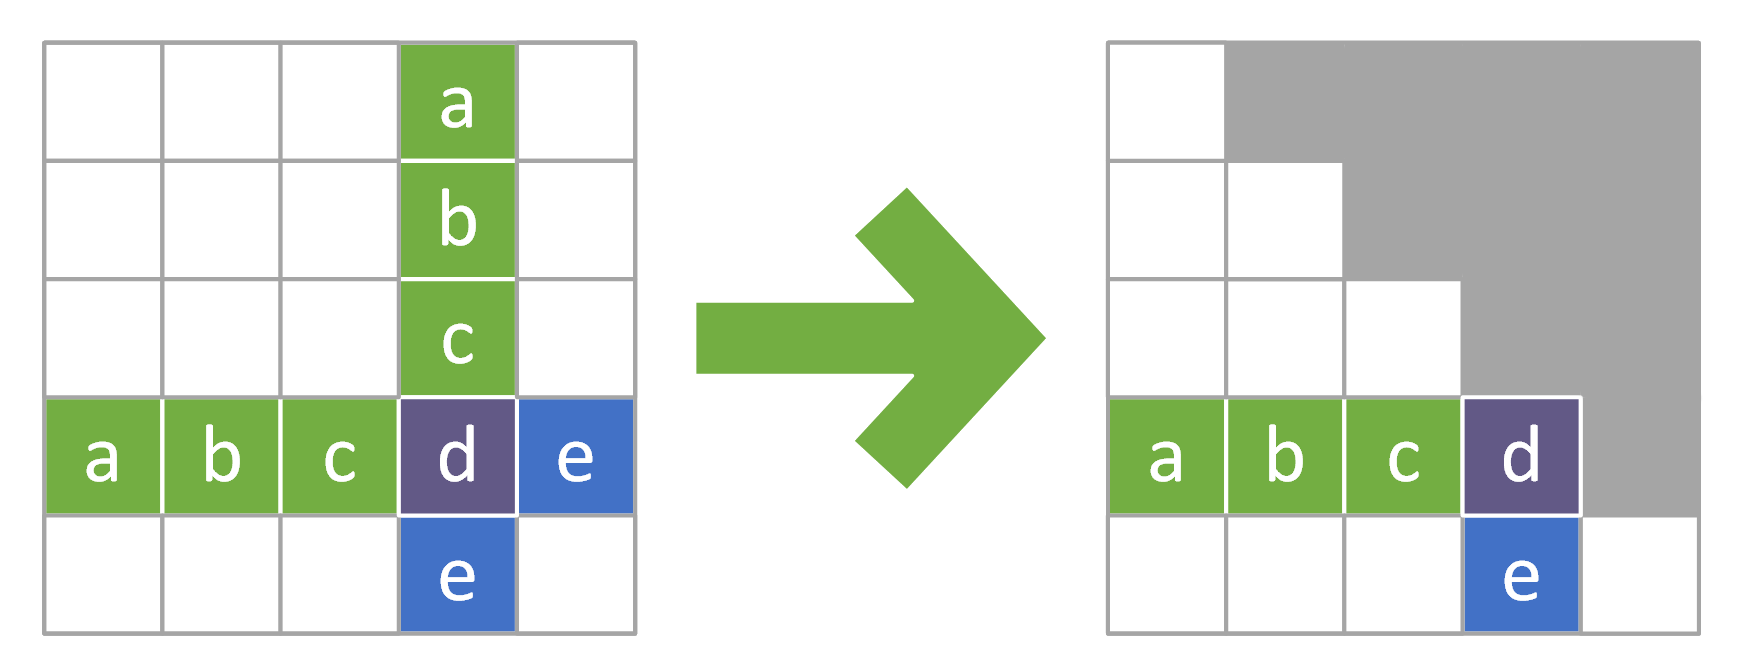
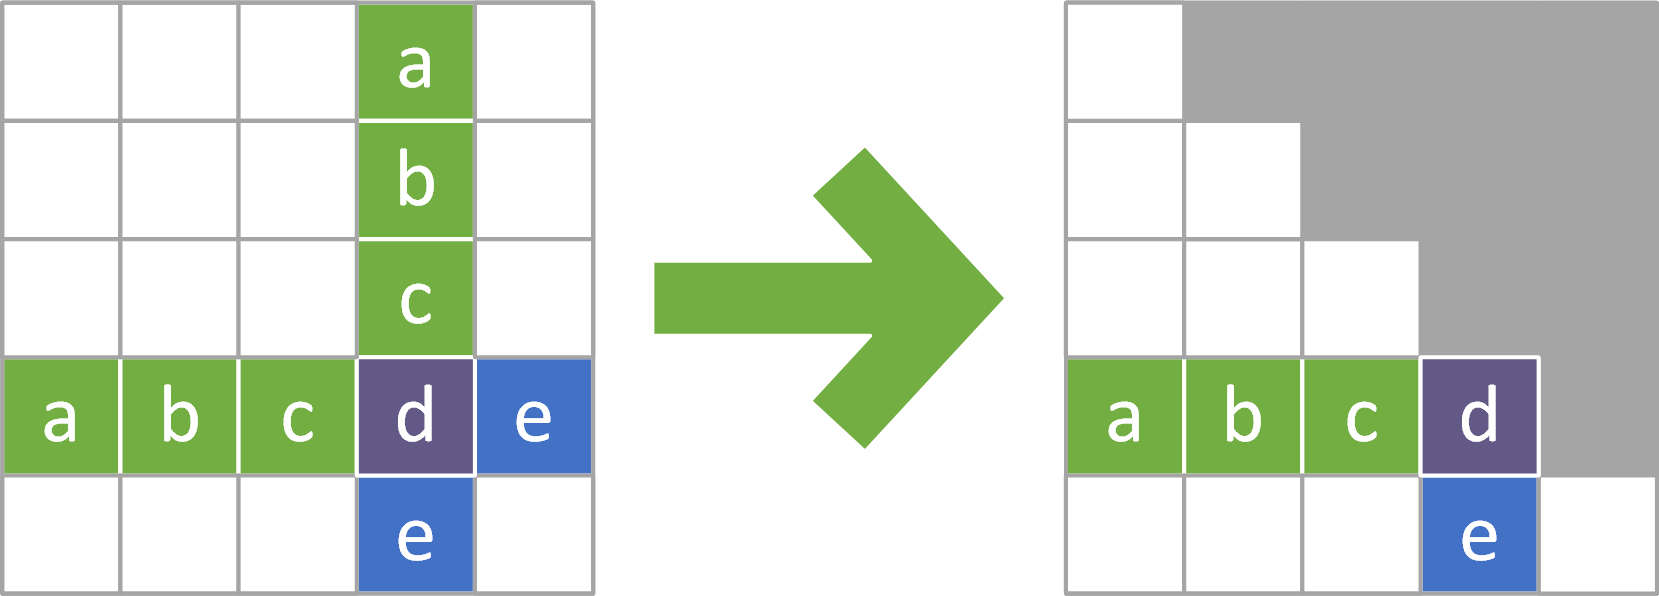
Added memory usage optimisation visualisations

diff --git a/040_HierarchicalClustering.tex b/040_HierarchicalClustering.tex
@@ -84,9 +84,25 @@ This storage strategy would use $(2n-1)^2$ double-precision floating-point numbe
 
 The easiest optimisation is to convert all distances to a single-precision floating-point format. The loss of precision is not affecting the result, as mostly only the $<$ and $>$ relations of the different distances are important.
 
-A second optimisation that can be applied is, to remove redundant information. When storing the full matrix of all distances, most values are stored twice. The matrix is mirrored along the diagonal, because the used street networks are undirected graphs. So the memory usage can almost be cut in half if those duplicates are not stored.
+A second optimisation that can be applied is, to remove redundant information. When storing the full matrix of all distances, most values are stored twice. The matrix is mirrored along the diagonal, because the used street networks are undirected graphs. So the memory usage can almost be cut in half if those duplicates are not stored. This improvement is visualised in figure \ref{fig:memory_usage_01}.
 
-The third and last applied optimisation was to change the way, how cluster distances are stored if the reduction formula \acrshort{UPGMA} or \acrshort{WPGMA} is used. Each time, when two clusters are combined, the distances of the new formed cluster to every other cluster are calculated. This combination step is done using the distances stored for the two old clusters. Afterwards the distances which were stored for the old clusters are no longer used. To reduce the memory usage, the distances of the new cluster can therefore be stored, at the location where the distances of one of the old clusters were stored.
+The third and last applied optimisation was to change the way, how cluster distances are stored if the reduction formula \acrshort{UPGMA} or \acrshort{WPGMA} is used. Each time, when two clusters are combined, the distances of the new formed cluster to every other cluster are calculated. This combination step is done using the distances stored for the two old clusters. Afterwards the distances which were stored for the old clusters are no longer used. To reduce the memory usage, the distances of the new cluster can therefore be stored, at the location where the distances of one of the old clusters were stored. Figure \ref{fig:memory_usage_02} visualises this optimisation.
+
+\begin{figure}
+    \centering
+    \begin{subfigure}[b]{\textwidth}
+        \includegraphics[width=\linewidth]{memoryusage01.png}
+        \caption{Optimisation of memory usage by not storing redundant information. On the left hand side is the full distance matrix, on the right hand side is the same matrix without the duplicate entries.}
+        \label{fig:memory_usage_01}
+    \end{subfigure}
+    \par\medskip
+    \begin{subfigure}[b]{\textwidth}
+        \includegraphics[width=\linewidth]{memoryusage02.png}
+        \caption{Optimisation of memory usage by changing the cluster combination behaviour. On the left hand side the blue distances belonging to the old clusters are combined and stored in a new row (of green distances) belonging to the new formed cluster. The right hand side is similar, but the distances of the old clusters (blue and violet) are combined and stored at the location of one of the old clusters (violet). After the combination, the violet distances belong to the new formed cluster.}
+        \label{fig:memory_usage_02}
+    \end{subfigure}
+    \caption{Visualised memory usage optimisations}
+\end{figure}
 
 \subsection{Output Modification}
 - Equalization of cluster sizes
